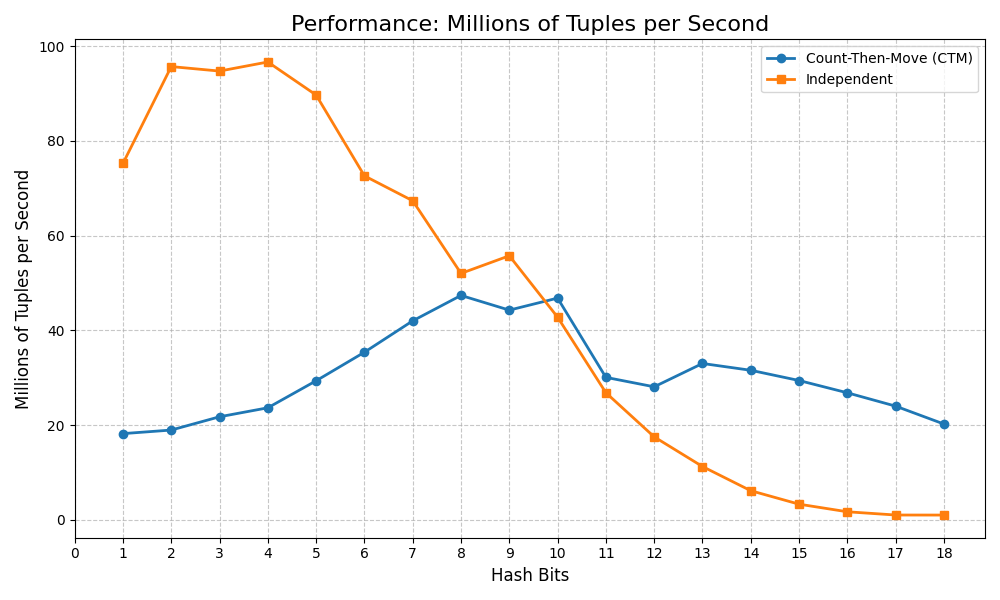
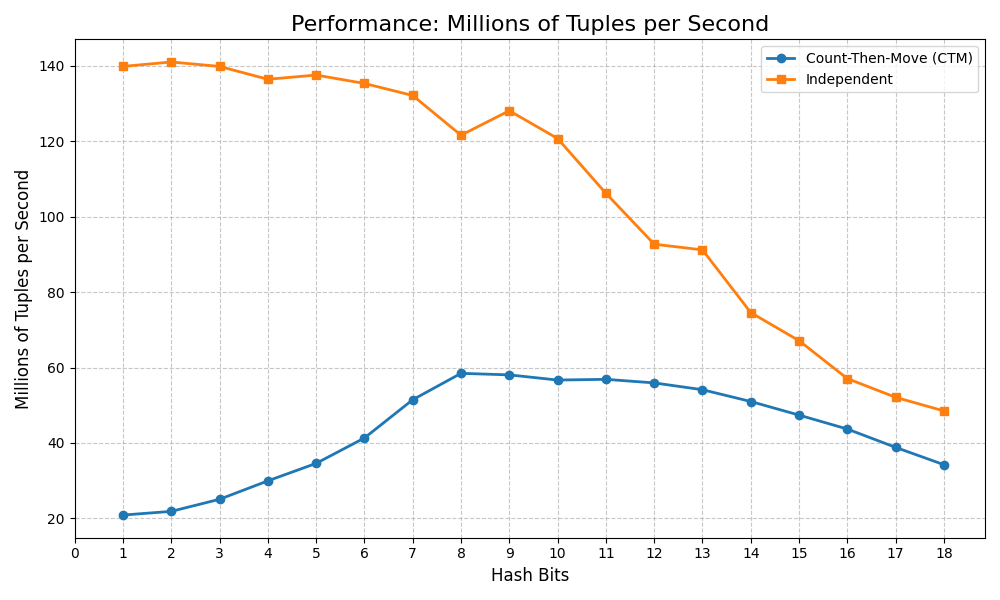
fix data gen time got removed twice from stdout graph

diff --git a/Project1/graph_creation.py b/Project1/graph_creation.py
@@ -2,6 +2,7 @@ from collections import defaultdict
 import os
 import re
 from dataclasses import dataclass
+import numpy as np
 import matplotlib.pyplot as plt
 
 # === Where to find data ===
@@ -124,7 +125,7 @@ def getDataFileResults(algos, files, tuplepower):
                 if int(observations[0][9]) == 10:
                     threads = int(observations[0][11])
                     hashbits = int(observations[0][12])
-                    time = int(observations[0][8])
+                    time = int(observations[0][8])/1000 # To get seconds
                     r = Results(algo, threads, hashbits, tuplepower, [time])
                     results_dict[algo][threads][hashbits] = r
             # ===== Independent =====
@@ -135,7 +136,7 @@ def getDataFileResults(algos, files, tuplepower):
                 if int(observations[0][3]) == 10:
                     threads = int(observations[0][5])
                     hashbits = int(observations[0][6])
-                    time = int(observations[0][2])
+                    time = int(observations[0][2])/1000 # To get seconds
                     r = Results(algo, threads, hashbits, tuplepower, [time])
                     results_dict[algo][threads][hashbits] = r
             # ===== Dry =====
@@ -146,7 +147,7 @@ def getDataFileResults(algos, files, tuplepower):
 
                 threads = int(observations[0][2])
                 hashbits = int(observations[0][3])
-                time = int(observations[0][4])
+                time = int(observations[0][4])/1000 # To get seconds
 
                 if hashbits not in results_dict[algo][threads]:
                     r = Results(algo, threads, hashbits, tuplepower, [time])
@@ -158,9 +159,10 @@ def getDataFileResults(algos, files, tuplepower):
 
                 
 
-def makePerfGraph(results, thread, name):
+def makePerfGraphForSpeceficThreadUsingBothAlgos(results, thread, name, data_gen_already_removed):
     total_tuples = 2 ** 24
     data_generation_time = results["dry"][1][1].time_average()
+    print(data_generation_time)
     hash_bits = range(1,19)
     
     ctm_perf = []
@@ -169,13 +171,19 @@ def makePerfGraph(results, thread, name):
     for h in hash_bits:
         #For Count then move
         ctm_time_average = results["ctm"][thread][h].time_average()
-        ctm_partition_time  =ctm_time_average - data_generation_time
+        if not data_gen_already_removed:
+            ctm_partition_time  = ctm_time_average - data_generation_time
+        else:
+            ctm_partition_time = ctm_time_average
         ctm_million_tuples_per_sec = (total_tuples / ctm_partition_time) / 1_000_000
         ctm_perf.append(ctm_million_tuples_per_sec)
 
-        #FOr Independant
+        #For Independant
         i_time_average = results["i"][thread][h].time_average()
-        i_partition_time  =i_time_average - data_generation_time
+        if not data_gen_already_removed:
+            i_partition_time = i_time_average - data_generation_time
+        else:
+            i_partition_time = i_time_average
         i_million_tuples_per_sec = (total_tuples / i_partition_time) / 1_000_000
         independent_perf.append(i_million_tuples_per_sec)
     
@@ -193,9 +201,27 @@ def makePerfGraph(results, thread, name):
     
     plt.tight_layout()
     
-
     plt.savefig(name + '.png')
     plt.close()
+
+
+
+def makePerfGraphForAllThreadsInGivenAlgo(results, algo_name, name):
+    total_tuples = 2 ** 24
+    data_generation_time = results["dry"][1][1].time_average()
+    hash_bits = range(1, 19)
+    
+    # Get all thread counts available for this algorithm
+    thread_counts = sorted(results[algo_name].keys())
+    
+    plt.figure(figsize=(12, 8))
+    
+    # Line styles and markers for different threads
+    markers = ['o', 's', 'D', '^', 'v', '<', '>', 'p', '*', 'h', 'H', '+', 'x', 'd']
+    colors = plt.cm.viridis(np.linspace(0, 1, len(thread_counts)))
+    
+    # Plot a line for each thread count
+   
 
 
 #TODO:
@@ -212,12 +238,15 @@ def main():
     perf_dirs = [ctm_perf_dir, independent_perf_dir, dry_perf_dir]
 
     results_dict = getPerfResultsFromDirS(algos, perf_dirs)
-    makePerfGraph(results_dict, 32, 'performance_graph_from_perf') #Should be the same as performance_graph_from_stdout
+    makePerfGraphForSpeceficThreadUsingBothAlgos(results_dict, 32, 'performance_graph_from_perf', False) #Should be the same as performance_graph_from_stdout
 
     # ==== STDOUT GRAPHS =====
     file_paths = [data_ctm, data_independent, data_dry]
     tuplepower = 24
-    makePerfGraph(results_dict, 32, 'performance_graph_from_stdout') #Should be the same as performance_graph_from_perf
+    stdout_results_dict = getDataFileResults(algos, file_paths, tuplepower)
+
+    makePerfGraphForSpeceficThreadUsingBothAlgos(stdout_results_dict, 32, 'performance_graph_from_stdout', True) #Should be the same as performance_graph_from_perf
+
 
     
 if __name__ == "__main__":
